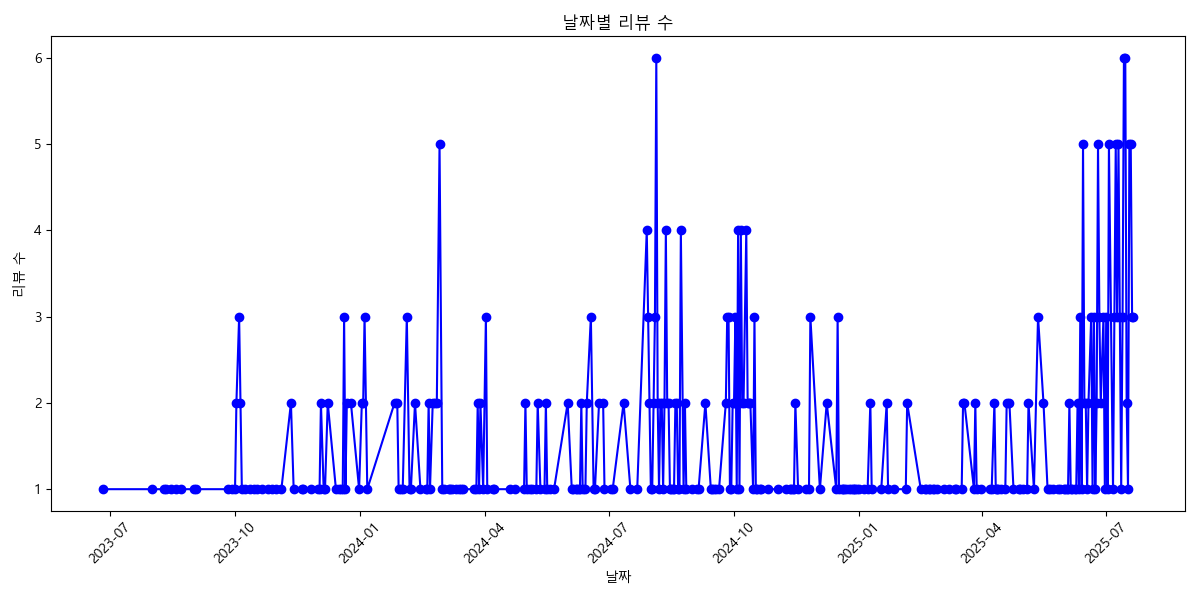
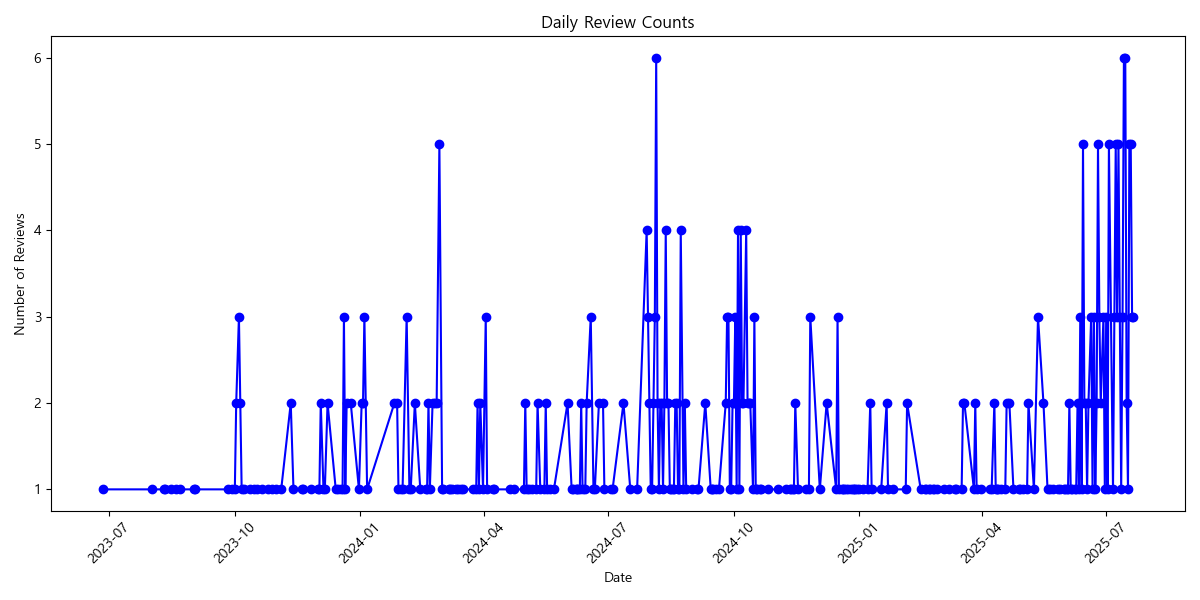
chore: tripdotcom plots edit

diff --git a/YBIGTA_newbie_team_project/review_analysis/plots/plots_tripdotcom.py b/YBIGTA_newbie_team_project/review_analysis/plots/plots_tripdotcom.py
@@ -20,25 +20,25 @@ df["weekday"] = df["date"].dt.day_name()
 ## 1. 별점 분포 시각화
 plt.figure(figsize=(8, 6))
 sns.countplot(x="rating", data=df, palette="Set3", edgecolor='black')
-plt.title("별점 분포")
-plt.xlabel("별점")
-plt.ylabel("리뷰 수")
+plt.title("Distribution of Ratings")
+plt.xlabel("Rating")
+plt.ylabel("Number of Reviews")
 plt.savefig("tripdotcom_rating_distribution.png")
 plt.close()
 
 ## 2. 리뷰 길이 분포
 plt.figure(figsize=(8, 6))
 plt.hist(df["review_length"], bins=30, color='skyblue', edgecolor='black')
-plt.title("리뷰 길이 분포")
-plt.xlabel("리뷰 길이")
-plt.ylabel("리뷰 수(글자 수)")
+plt.title("Distribution of Review Lengths")
+plt.xlabel("Review Length (characters)")
+plt.ylabel("Number of Reviews")
 plt.savefig("tripdotcom_review_length_distribution.png")
 plt.close()
 
 plt.figure(figsize=(8, 6))
 sns.boxplot(y=df["review_length"], color='skyblue')
-plt.title("리뷰 길이 분포 (Box Plot)")
-plt.ylabel("리뷰 길이")
+plt.title("Boxplot of Review Lengths")
+plt.ylabel("Review Length (characters)")
 plt.savefig("tripdotcom_review_length_boxplot.png")
 plt.close()
 
@@ -46,9 +46,9 @@ plt.close()
 daily_counts = df["date"].value_counts().sort_index()
 plt.figure(figsize=(12, 6))
 plt.plot(daily_counts.index, daily_counts.values, marker='o', linestyle='-', color='blue')
-plt.title("날짜별 리뷰 수")
-plt.xlabel("날짜")
-plt.ylabel("리뷰 수")
+plt.title("Daily Review Counts")
+plt.xlabel("Date")
+plt.ylabel("Number of Reviews")
 plt.xticks(rotation=45)
 plt.tight_layout()
 plt.savefig("tripdotcom_daily_review_counts.png")
@@ -59,8 +59,8 @@ weekday_order = ["Monday", "Tuesday", "Wednesday", "Thursday", "Friday", "Saturd
 weekday_counts = df["weekday"].value_counts().reindex(weekday_order)
 plt.figure(figsize=(8, 6))
 sns.barplot(x=weekday_counts.index, y=weekday_counts.values, palette="Set3", edgecolor='black')
-plt.title("요일별 리뷰 수")
-plt.xlabel("요일")
-plt.ylabel("리뷰 수")
+plt.title("Review Counts by Weekday")
+plt.xlabel("Day of the Week")
+plt.ylabel("Number of Reviews")
 plt.savefig("tripdotcom_weekday_review_counts.png")
 plt.close()
